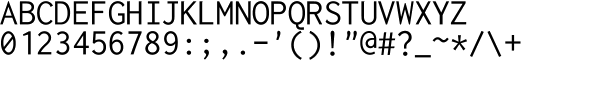
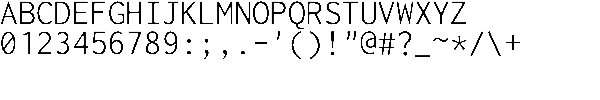
font and gui updates

diff --git a/src/engine/JWolf2D/testGame/MenuScreen.java b/src/engine/JWolf2D/testGame/MenuScreen.java
@@ -1,0 +1,62 @@
+package engine.JWolf2D.testGame;
+
+import org.lwjgl.input.Mouse;
+import org.lwjgl.opengl.Display;
+
+import engine.JWolf2D.core.Screen;
+import engine.JWolf2D.core.ScreenManager;
+import engine.JWolf2D.geom.Vector2;
+import engine.JWolf2D.gui.*;
+
+public class MenuScreen implements Screen{
+	private GuiManager gui;
+	private ScreenManager manager;
+	private Button playButton, editorButton, optionsButton, exitButton;
+	
+	public void init(ScreenManager manager) {
+		this.manager = manager;
+		gui = new GuiManager("res/images/gui/8bitbig.png");
+		
+		playButton = new Button(new Vector2(Display.getWidth()/2-64, Display.getHeight()/2-49), gui, "Play");
+		editorButton = new Button(new Vector2(Display.getWidth()/2-64, Display.getHeight()/2-16), gui, "Editor");
+		optionsButton = new Button(new Vector2(Display.getWidth()/2-64, Display.getHeight()/2+17), gui, "Options");
+		exitButton = new Button(new Vector2(Display.getWidth()/2-64, Display.getHeight()/2+50), gui, "Exit");
+		
+		gui.addLabel(new Label(gui, "Main Menu!", Display.getWidth()/2-150, 200, 40, 40));
+		gui.addLabel(new Label(gui, "abcde 1234567890!?", 10, 100, 40, 40));
+		gui.addButton(playButton);
+		gui.addButton(editorButton);
+		gui.addButton(optionsButton);
+		gui.addButton(exitButton);
+	}
+
+	public void update(long deltaTime) {
+		while(Mouse.next()) {
+			gui.update();
+		}
+		
+		if(playButton.clicked()) {
+			System.out.println("Going so soon?");
+			manager.setScreen(new GameScreen());
+		}
+		
+		if(editorButton.clicked()) {
+			System.out.println("Make me some shiz!");
+			manager.setScreen(new EditorScreen());
+		}
+		
+		if(optionsButton.clicked()) {
+			System.out.println("Coming soon!");
+		}
+		
+		if(exitButton.clicked()) {
+			System.out.println("Bye bye!");
+			manager.getGame().requestClose();
+		}
+	}
+
+	public void render() {
+		gui.render();
+	}
+	
+}

diff --git a/src/engine/JWolf2D/core/Game.java b/src/engine/JWolf2D/core/Game.java
@@ -11,6 +11,7 @@ import engine.JWolf2D.resource.Textures;
 
 public class Game {
 	private ScreenManager manager;
+	private boolean isCloseRequested = false;
 	
 	static {
 		if(System.getProperty("os.name").startsWith("Win")) {
@@ -77,7 +78,7 @@ public class Game {
 			int frames = 0;
 			long lastSecond = System.currentTimeMillis();
 			
-			while (!Display.isCloseRequested()) {
+			while (!Display.isCloseRequested() && !isCloseRequested) {
 				long now = System.currentTimeMillis();
 				
 				glClear(GL_COLOR_BUFFER_BIT);
@@ -124,6 +125,10 @@ public class Game {
 		finally {
 			Display.destroy();
 		}
+	}
+
+	public void requestClose() {
+		isCloseRequested = true;
 	}
 }
 

diff --git a/src/engine/JWolf2D/gui/GuiManager.java b/src/engine/JWolf2D/gui/GuiManager.java
@@ -10,7 +10,7 @@ public class GuiManager {
 	private Font font;
 
 	public GuiManager(String fontPath) {
-		font = new Font(Textures.get().add("font", fontPath),18,30,new String[] {"ABCDEFGHIJKLMNOPQRSTUVWXYZ","0123456789:;,.-'()!\"@$?_~*/\\+"});
+		font = new Font(Textures.get().add("font", fontPath),32,32,new String[] {"ABCDEFGHIJKLMNOPQRSTUVWXYZ","0123456789:;,.-'()!\"@$?_~*/\\+"});
 		labels = new Bag<Label>();
 		buttons = new Bag<Button>();
 		checkboxes = new Bag<CheckBox>();

diff --git a/src/engine/JWolf2D/testGame/EditorScreen.java b/src/engine/JWolf2D/testGame/EditorScreen.java
@@ -1,0 +1,20 @@
+package engine.JWolf2D.testGame;
+
+import engine.JWolf2D.core.Screen;
+import engine.JWolf2D.core.ScreenManager;
+
+public class EditorScreen implements Screen{
+
+	public void init(ScreenManager manager) {
+		
+	}
+
+	public void update(long deltaTime) {
+		
+	}
+
+	public void render() {
+		
+	}
+
+}

diff --git a/src/engine/JWolf2D/testGame/Main.java b/src/engine/JWolf2D/testGame/Main.java
@@ -5,7 +5,7 @@ import engine.JWolf2D.core.Game;
 public class Main {
 
 	public static void main(String[] args) throws Exception{
-		Game game = new Game(new GameScreen());
+		Game game = new Game(new MenuScreen());
 		game.setTitle("Test Game");
 		game.setDisplayMode(1024,720);
 		game.start();

diff --git a/src/engine/JWolf2D/gui/Clickable.java b/src/engine/JWolf2D/gui/Clickable.java
@@ -31,10 +31,13 @@ public class Clickable {
 	}
 	
 	public boolean clicked() {
-		if(down = true)
-			return true;
-		else
-			return false;
+		boolean temp = down;
+		down = false;
+		return temp;
+	}
+	
+	public void setDown(boolean down) {
+		this.down = down;
 	}
 	
 	public void render() {
